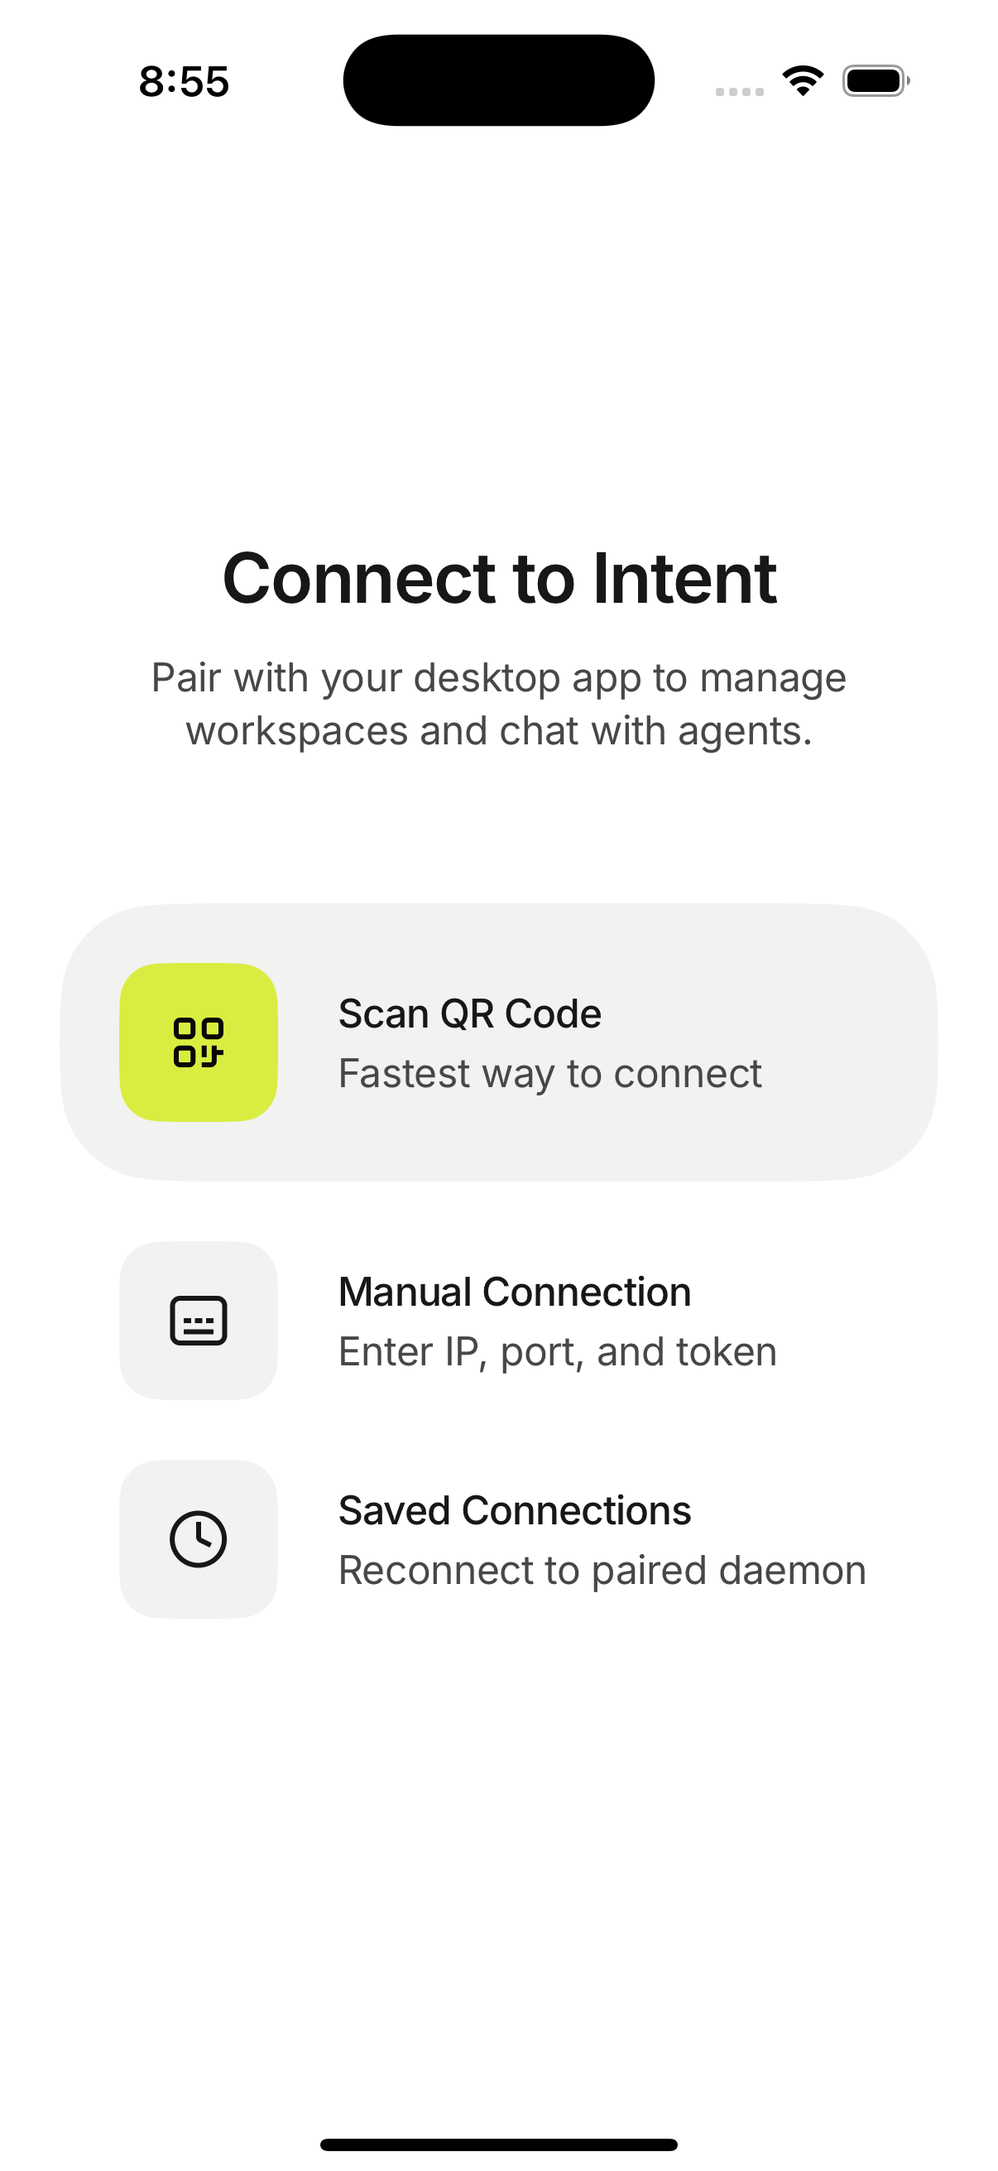
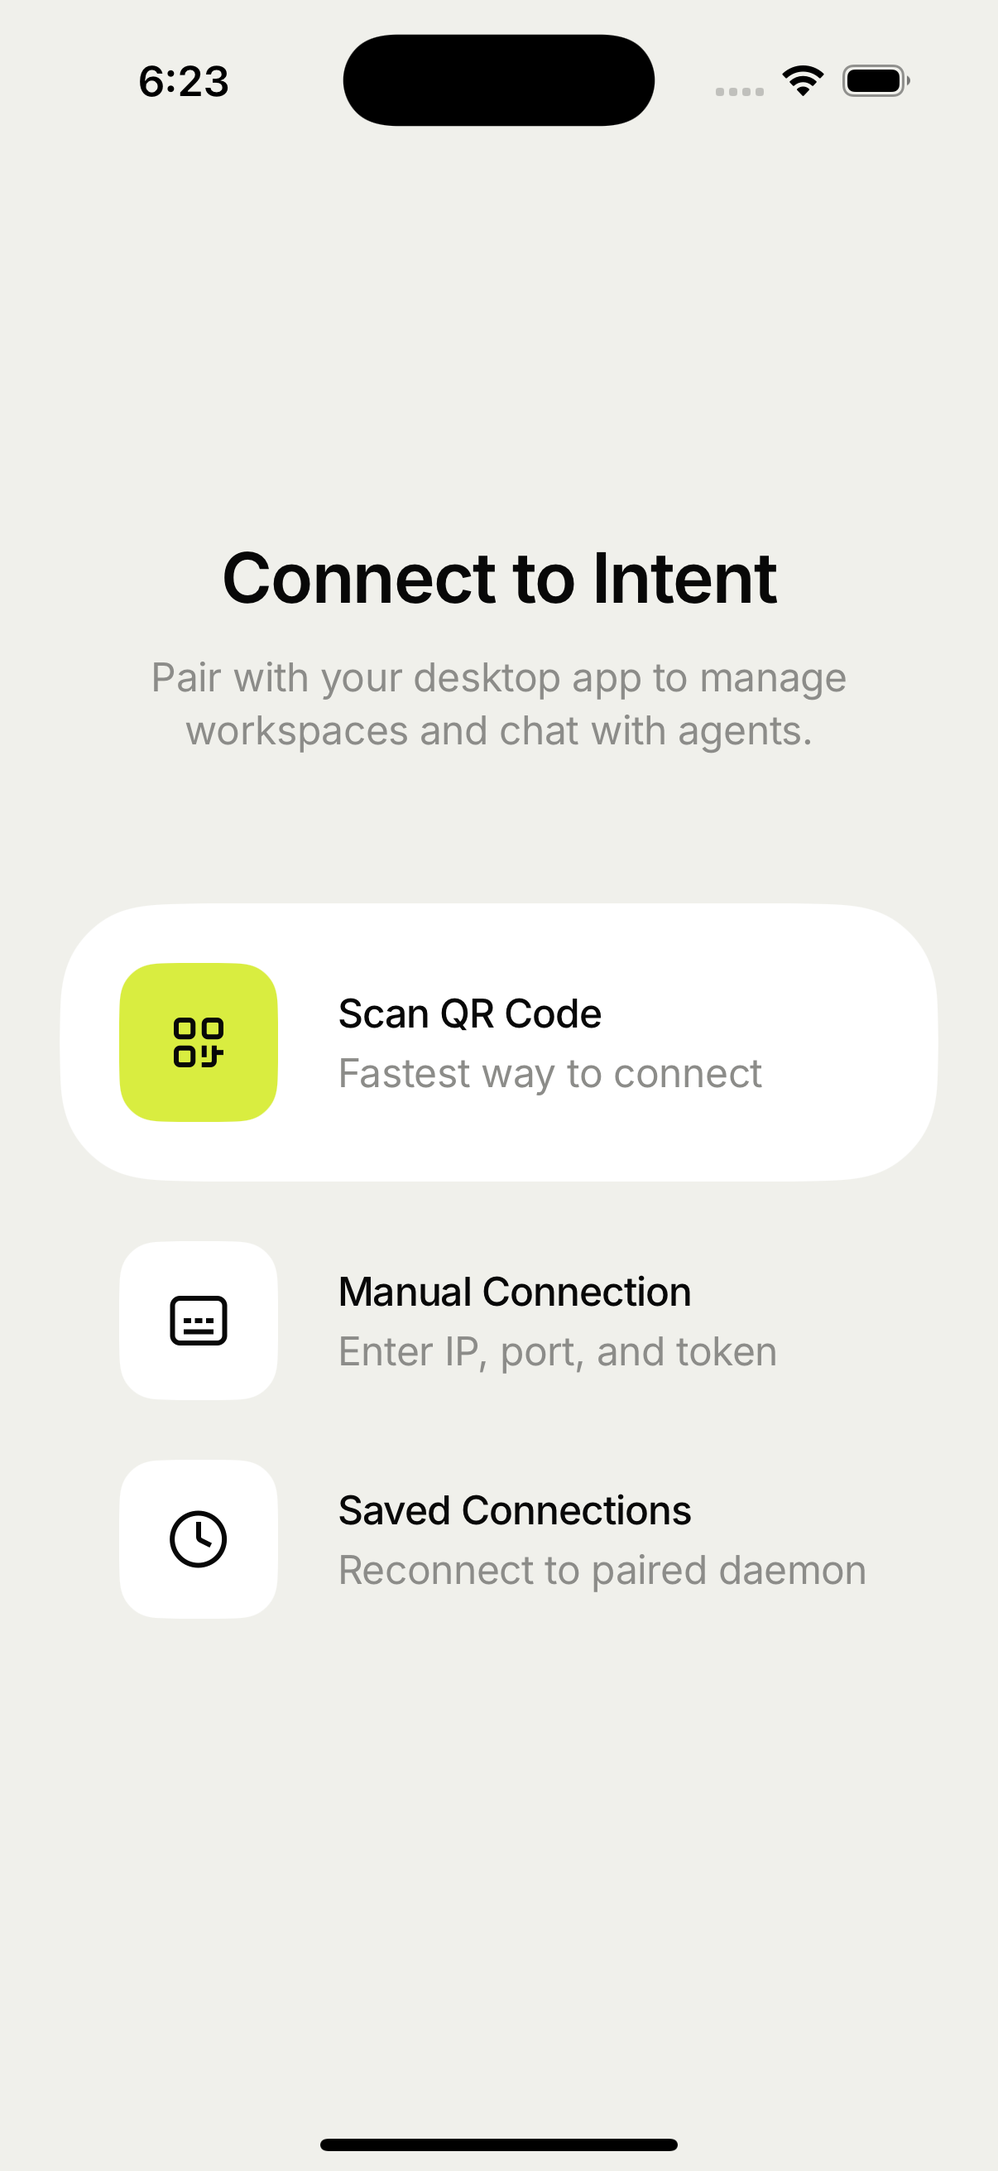
fix: match connection colors and refresh previews (#489)
Agent-Id: agent-cdae4bad-784a-4636-95eb-7aa4c5f506b7

diff --git a/IntentTests/SavedConnectionCardTests.swift b/IntentTests/SavedConnectionCardTests.swift
@@ -1,6 +1,7 @@
 @testable import Intent
 import SwiftUI
 import Testing
+import UIKit
 
 @MainActor
 struct SavedConnectionCardTests {
@@ -11,9 +12,57 @@ struct SavedConnectionCardTests {
         let colors = try pixelColors(card, scheme: scheme)
         let expected = scheme == .light
             ? [[255, 255, 255], [8, 8, 8], [140, 140, 137], [111, 163, 86], [217, 217, 217]]
-            : [[39, 39, 39], [240, 240, 235], [140, 140, 137], [111, 163, 86], [69, 69, 68]]
+            : [[39, 39, 39], [240, 240, 235], [140, 140, 137], [111, 163, 86], [71, 71, 71]]
         for color in expected {
             #expect(pixelCount(color, in: colors) > 20, "Missing rendered Saved color: \(color), \(scheme)")
+        }
+        // Figma full-frame Outline/15% Black: light #00000026, dark #FFFFFF26.
+        // The exact alpha/tint catches a warm divider that a tolerant pixel histogram could miss.
+        var red: CGFloat = 0
+        var green: CGFloat = 0
+        var blue: CGFloat = 0
+        var alpha: CGFloat = 0
+        UIColor(Constants.Connections.divider(for: scheme)).getRed(&red, green: &green, blue: &blue, alpha: &alpha)
+        #expect([red, green, blue] == Array(repeating: scheme == .light ? 0 : 1, count: 3))
+        #expect(abs(alpha - 38 / 255) < 0.0001)
+    }
+
+    @Test(.serialized, arguments: [ColorScheme.light, .dark])
+    func renderedManualEmptySheetUsesDesignPalette(scheme: ColorScheme) async throws {
+        // Actual sheet, labels, fields and disabled button; no pairing action or live credentials.
+        _ = TestKeychainStorage.installed
+        let suiteName = "ManualPaletteTests-\(UUID().uuidString)"
+        let defaults = try #require(UserDefaults(suiteName: suiteName))
+        defer { defaults.removePersistentDomain(forName: suiteName) }
+        let session = makeSession(defaults: defaults)
+        let view = ManualTokenEntryView()
+            .environment(session)
+            .environment(session.makeCoordinator())
+            .environment(\.colorScheme, scheme)
+            .environment(\.dynamicTypeSize, .large)
+            .frame(width: 402, height: 633)
+        // ImageRenderer cannot flatten native text fields or lay out this sheet's scroll content.
+        let colors = try await SyntheticBadgeHost.render(view, width: 402, height: 633) { hostView, _ in
+            let renderer = UIGraphicsImageRenderer(bounds: hostView.bounds)
+            var drawn = false
+            let image = renderer.image { _ in
+                drawn = hostView.drawHierarchy(in: hostView.bounds, afterScreenUpdates: true)
+            }
+            try #require(drawn)
+            return try pixelColors(#require(image.cgImage))
+        }
+        // Independent full-frame references: light 3051:54152, dark 2989:19990.
+        let expected = scheme == .light
+            ? [
+                [240, 240, 235], [8, 8, 8], [140, 140, 137], [82, 82, 80],
+                [255, 255, 255], [186, 186, 183], [202, 202, 199]
+            ]
+            : [
+                [22, 22, 22], [240, 240, 235], [140, 140, 137], [39, 39, 39],
+                [82, 82, 80], [60, 60, 58]
+            ]
+        for color in expected {
+            #expect(pixelCount(color, in: colors) > 20, "Missing rendered Manual color: \(color), \(scheme)")
         }
     }
 
@@ -48,18 +97,52 @@ struct SavedConnectionCardTests {
         }
     }
 
+    private func makeSession(defaults: UserDefaults) -> BackendSession {
+        let connection = FakeConnectionManager()
+        let store = WorkspaceStore(forTesting: true)
+        let persistence = PersistenceManager(defaults: defaults, keychainStorage: InMemoryKeychainStorage())
+        let fileLoader = WorkspaceFileImageLoader(connection: connection)
+        return BackendSession(
+            backendID: nil,
+            connection: connection,
+            workspaceStore: store,
+            coordinatorFactory: { claim in
+                AppCoordinator(
+                    workspaceStore: store,
+                    connection: connection,
+                    persistence: persistence,
+                    claimScreenRestoration: claim
+                )
+            },
+            githubRepoStore: GitHubRepoStore(connectionManager: connection),
+            creationOptionsStore: CreationOptionsStore(connectionManager: connection),
+            prMonitorsStore: WorkspacePrMonitorsStore(connectionManager: connection),
+            attachmentUploadService: AttachmentUploadService(connection: connection),
+            workspaceFileImageLoader: fileLoader,
+            attachmentImageLoader: AttachmentImageLoader(connection: connection, fileLoader: fileLoader),
+            attentionCueCenter: WorkspaceAttentionCueCenter {}
+        )
+    }
+
     private func pixelColors<V: View>(_ view: V, scheme: ColorScheme) throws -> [[Int]] {
         let renderer = ImageRenderer(content: view
             .environment(\.colorScheme, scheme)
             .environment(\.dynamicTypeSize, .large))
         renderer.scale = 3
         let image = try #require(renderer.cgImage)
+        return try pixelColors(image)
+    }
+
+    private func pixelColors(_ image: CGImage) throws -> [[Int]] {
         let colorSpace = try #require(CGColorSpace(name: CGColorSpace.sRGB))
         var bytes = [UInt8](repeating: 0, count: image.width * image.height * 4)
         try bytes.withUnsafeMutableBytes { buffer in
             let context = try #require(CGContext(
-                data: buffer.baseAddress, width: image.width, height: image.height,
-                bitsPerComponent: 8, bytesPerRow: image.width * 4,
+                data: buffer.baseAddress,
+                width: image.width,
+                height: image.height,
+                bitsPerComponent: 8,
+                bytesPerRow: image.width * 4,
                 space: colorSpace,
                 bitmapInfo: CGImageAlphaInfo.premultipliedLast.rawValue | CGBitmapInfo.byteOrder32Big.rawValue
             ))

diff --git a/Intent/DesignSystem/ConnectionSheetStyle.swift b/Intent/DesignSystem/ConnectionSheetStyle.swift
@@ -2,7 +2,7 @@ import SwiftUI
 
 extension Constants {
     /// Manual frames 2989:19990 / 2989:20026; reusable destination-sheet geometry.
-    /// Palette intentionally reuses Connect's matching colors without changing them.
+    /// Manual's shared palette is supplied explicitly, preserving other sheet callers.
     enum ConnectionSheet {
         static let inset: CGFloat = 24
         static let glyphSize: CGFloat = 24
@@ -17,9 +17,29 @@ extension Constants {
         static let minimumTouchTarget: CGFloat = 44
         static let placeholderOpacity: Double = 0.3
         static let pressedOpacity: Double = 0.7
-        // Figma surface/grey-600 #525250.
-        // swiftlint:disable:next no_magic_numbers
-        static let disabledBackground = Color(.sRGB, red: 82 / 255, green: 82 / 255, blue: 80 / 255)
+        // Figma Surface/Grey600 in dark 2989:19990 and light 3051:54152.
+        // swiftlint:disable no_magic_numbers
+        private static let darkDisabledBackground = Color(.sRGB, red: 82 / 255, green: 82 / 255, blue: 80 / 255)
+        private static let lightDisabledBackground = Color(.sRGB, red: 186 / 255, green: 186 / 255, blue: 183 / 255)
+        private static let lightDisabledForeground = Color(.sRGB, red: 240 / 255, green: 240 / 255, blue: 235 / 255)
+        // swiftlint:enable no_magic_numbers
+
+        static func disabledBackground(for scheme: ColorScheme) -> Color {
+            scheme == .dark ? darkDisabledBackground : lightDisabledBackground
+        }
+
+        static func disabledForeground(for scheme: ColorScheme) -> Color {
+            (scheme == .dark ? Constants.Pairing.onAccent : lightDisabledForeground).opacity(placeholderOpacity)
+        }
+
+        // Nil sheet overrides retain the appearance used by unmodified destinations such as Details.
+        static func defaultBackground(for scheme: ColorScheme) -> Color {
+            scheme == .dark ? Constants.Pairing.background(for: scheme) : Theme.background(for: scheme)
+        }
+
+        static func defaultForeground(for scheme: ColorScheme) -> Color {
+            scheme == .dark ? Constants.Pairing.foreground(for: scheme) : Theme.foreground(for: scheme)
+        }
     }
 }
 
@@ -36,4 +56,12 @@ extension Constants.ManualTokenEntry {
     static let labelTracking: CGFloat = 0.24
     static let pasteVerticalPadding: CGFloat = 10
     static let pasteHitExpansion: CGFloat = 10
+
+    // Field labels use Grey400 in light mode, distinct from the Grey500 subtitle.
+    // swiftlint:disable:next no_magic_numbers
+    private static let lightLabelForeground = Color(.sRGB, red: 82 / 255, green: 82 / 255, blue: 80 / 255)
+
+    static func labelForeground(for scheme: ColorScheme) -> Color {
+        scheme == .dark ? Constants.Pairing.mutedForeground(for: scheme) : lightLabelForeground
+    }
 }

diff --git a/Intent/Views/Onboarding/ManualTokenEntryView.swift b/Intent/Views/Onboarding/ManualTokenEntryView.swift
@@ -92,7 +92,11 @@ struct ManualTokenEntryView: View {
     private enum Field { case host, port, token }
 
     var body: some View {
-        ConnectionSheet(initialHeight: Constants.ManualTokenEntry.initialSheetHeight) {
+        ConnectionSheet(
+            initialHeight: Constants.ManualTokenEntry.initialSheetHeight,
+            backgroundColor: Constants.Pairing.background(for: colorScheme),
+            closeForeground: Constants.Pairing.foreground(for: colorScheme)
+        ) {
             entryForm
         }
             .alert("Verify Server Identity", isPresented: $showFingerprintConfirmation) {
@@ -188,7 +192,8 @@ struct ManualTokenEntryView: View {
                             .contentShape(.rect)
                     }
                     .buttonStyle(.plain)
-                    .foregroundStyle(Constants.Pairing.foreground(for: colorScheme))
+                    // Preserve the visible light paste affordance rather than Figma's white-on-white export.
+                    .foregroundStyle(Theme.foreground(for: colorScheme))
                     .accessibilityLabel("Paste API token")
                     // Expand the hit region inward, retaining the reference's 24pt glyph inset.
                     .padding(.trailing, -Constants.ManualTokenEntry.pasteHitExpansion)
@@ -226,14 +231,15 @@ struct ManualTokenEntryView: View {
             }
             .font(Constants.Typography.bodySEmphasized.font)
             .tracking(Constants.Pairing.optionTitleTracking)
-            .foregroundStyle(Constants.Pairing.onAccent.opacity(
-                !isValidating && (host.isEmpty || token.isEmpty) ? Constants.ConnectionSheet.placeholderOpacity : 1
-            ))
+            .foregroundStyle(
+                !isValidating && (host.isEmpty || token.isEmpty)
+                    ? Constants.ConnectionSheet.disabledForeground(for: colorScheme) : Constants.Pairing.onAccent
+            )
             .padding(.vertical, Constants.ConnectionSheet.fieldVerticalPadding)
             .frame(maxWidth: .infinity, minHeight: Constants.ConnectionSheet.fieldHeight)
             .background(
                 !isValidating && (host.isEmpty || token.isEmpty)
-                    ? Constants.ConnectionSheet.disabledBackground : Constants.Pairing.accent,
+                    ? Constants.ConnectionSheet.disabledBackground(for: colorScheme) : Constants.Pairing.accent,
                 in: .rect(cornerRadius: Constants.ConnectionSheet.fieldCornerRadius)
             )
         }

diff --git a/Intent/DesignSystem/PairingColors.swift b/Intent/DesignSystem/PairingColors.swift
@@ -1,32 +1,33 @@
 import SwiftUI
 
 extension Constants.Pairing {
-    // Connect-only colors from Figma frame 3051:54405; do not retheme other screens.
-    // Light mode keeps the app's existing semantic text/background colors.
+    // Connect/Manual colors from full-frame Figma modes: dark 3051:54405, light 3051:54203.
+    // Keep these connection-scoped; the app's global Theme is unchanged.
     // These named palette constants retain the design's exact 8-bit sRGB channels.
     // swiftlint:disable no_magic_numbers
     private static let darkBackground = Color(.sRGB, red: 22 / 255, green: 22 / 255, blue: 22 / 255)
     private static let darkForeground = Color(.sRGB, red: 240 / 255, green: 240 / 255, blue: 235 / 255)
     private static let darkMutedForeground = Color(.sRGB, red: 140 / 255, green: 140 / 255, blue: 137 / 255)
     private static let darkSurface = Color(.sRGB, red: 39 / 255, green: 39 / 255, blue: 39 / 255)
-    private static let lightSurface = Color(.sRGB, red: 242 / 255, green: 242 / 255, blue: 240 / 255)
+    private static let lightBackground = Color(.sRGB, red: 240 / 255, green: 240 / 255, blue: 235 / 255)
+    private static let lightForeground = Color(.sRGB, red: 8 / 255, green: 8 / 255, blue: 8 / 255)
     static let accent = Color(.sRGB, red: 221 / 255, green: 236 / 255, blue: 97 / 255)
     static let onAccent = Color(.sRGB, red: 8 / 255, green: 8 / 255, blue: 8 / 255)
     // swiftlint:enable no_magic_numbers
 
     static func background(for scheme: ColorScheme) -> Color {
-        scheme == .dark ? darkBackground : Theme.background(for: scheme)
+        scheme == .dark ? darkBackground : lightBackground
     }
 
     static func foreground(for scheme: ColorScheme) -> Color {
-        scheme == .dark ? darkForeground : Theme.foreground(for: scheme)
+        scheme == .dark ? darkForeground : lightForeground
     }
 
-    static func mutedForeground(for scheme: ColorScheme) -> Color {
-        scheme == .dark ? darkMutedForeground : Theme.mutedForeground(for: scheme)
+    static func mutedForeground(for _: ColorScheme) -> Color {
+        darkMutedForeground
     }
 
     static func surface(for scheme: ColorScheme) -> Color {
-        scheme == .dark ? darkSurface : lightSurface
+        scheme == .dark ? darkSurface : .white
     }
 }

diff --git a/IntentTests/PairingDesignTests.swift b/IntentTests/PairingDesignTests.swift
@@ -35,12 +35,14 @@ struct PairingDesignTests {
         #expect(representations.count == 3, "The three actions must not accidentally share one glyph")
     }
 
-    @Test func darkPaletteMatchesConnectDesign() {
+    @Test(arguments: [ColorScheme.light, .dark])
+    func paletteMatchesConnectDesign(scheme: ColorScheme) {
+        // Full-frame Figma modes: light 3051:54203, dark 3051:54405.
         let expected: [(Color, [CGFloat])] = [
-            (Constants.Pairing.background(for: .dark), [22, 22, 22]),
-            (Constants.Pairing.foreground(for: .dark), [240, 240, 235]),
-            (Constants.Pairing.mutedForeground(for: .dark), [140, 140, 137]),
-            (Constants.Pairing.surface(for: .dark), [39, 39, 39]),
+            (Constants.Pairing.background(for: scheme), scheme == .light ? [240, 240, 235] : [22, 22, 22]),
+            (Constants.Pairing.foreground(for: scheme), scheme == .light ? [8, 8, 8] : [240, 240, 235]),
+            (Constants.Pairing.mutedForeground(for: scheme), [140, 140, 137]),
+            (Constants.Pairing.surface(for: scheme), scheme == .light ? [255, 255, 255] : [39, 39, 39]),
             (Constants.Pairing.accent, [221, 236, 97]),
             (Constants.Pairing.onAccent, [8, 8, 8])
         ]
@@ -51,11 +53,10 @@ struct PairingDesignTests {
         }
     }
 
-    @Test func lightTextAndGlyphsRemainReadableOnBothSurfaces() {
+    @Test func lightPrimaryTextAndGlyphsRemainReadableOnBothSurfaces() {
+        // Exact Figma secondary text is below 4.5:1; palette parity is not an accessibility approval.
         for background in [Constants.Pairing.background(for: .light), Constants.Pairing.surface(for: .light)] {
-            for foreground in [Constants.Pairing.foreground(for: .light), Constants.Pairing.mutedForeground(for: .light)] {
-                #expect(contrast(foreground, background) >= 4.5)
-            }
+            #expect(contrast(Constants.Pairing.foreground(for: .light), background) >= 4.5)
         }
         #expect(contrast(Constants.Pairing.onAccent, Constants.Pairing.accent) >= 4.5)
     }

diff --git a/Intent/DesignSystem/SavedConnectionStyle.swift b/Intent/DesignSystem/SavedConnectionStyle.swift
@@ -12,12 +12,14 @@ extension Constants.Connections {
     static let connectedSpacing: CGFloat = 8
     static let dividerWidth: CGFloat = 1
     static let dividerHeight: CGFloat = 12
-    static let dividerOpacity: Double = 0.15
+    // Figma Outline/15% Black exports alpha 0x26 in both appearance modes.
+    // swiftlint:disable:next no_magic_numbers
+    static let dividerOpacity: Double = 38 / 255
     static let headingTracking: CGFloat = -0.56
     static let nameTracking: CGFloat = -0.32
     static let infoTracking: CGFloat = -0.12
 
-    // Saved-only light palette; other connection destinations retain Pairing colors.
+    // Preserve the approved exact Saved light palette independently of other destinations.
     // swiftlint:disable no_magic_numbers
     private static let lightBackground = Color(.sRGB, red: 240 / 255, green: 240 / 255, blue: 235 / 255)
     private static let lightForeground = Color(.sRGB, red: 8 / 255, green: 8 / 255, blue: 8 / 255)
@@ -43,7 +45,7 @@ extension Constants.Connections {
     }
 
     static func divider(for scheme: ColorScheme) -> Color {
-        scheme == .dark ? Constants.Pairing.foreground(for: scheme).opacity(dividerOpacity) : lightDivider
+        scheme == .dark ? Color.white.opacity(dividerOpacity) : lightDivider
     }
 
     static func connectedForeground(for _: ColorScheme) -> Color {

diff --git a/Intent/Views/Connection/ConnectionSheet.swift b/Intent/Views/Connection/ConnectionSheet.swift
@@ -26,7 +26,7 @@ struct ConnectionSheet<Content: View>: View {
                         .contentShape(.rect)
                 }
                 .buttonStyle(.plain)
-                .foregroundStyle(closeForeground ?? Constants.Pairing.foreground(for: colorScheme))
+                .foregroundStyle(closeForeground ?? Constants.ConnectionSheet.defaultForeground(for: colorScheme))
                 .accessibilityLabel("Close")
                 .accessibilityIdentifier("connection-sheet.close")
                 .padding(.horizontal, Constants.ConnectionSheet.inset)
@@ -47,8 +47,8 @@ struct ConnectionSheet<Content: View>: View {
                 .scrollDismissesKeyboard(.interactively)
             }
         }
-        .background(backgroundColor ?? Constants.Pairing.background(for: colorScheme))
-        .presentationBackground(backgroundColor ?? Constants.Pairing.background(for: colorScheme))
+        .background(backgroundColor ?? Constants.ConnectionSheet.defaultBackground(for: colorScheme))
+        .presentationBackground(backgroundColor ?? Constants.ConnectionSheet.defaultBackground(for: colorScheme))
         .presentationCornerRadius(Constants.ConnectionSheet.cornerRadius)
         .presentationDragIndicator(.hidden)
         .presentationDetents([

diff --git a/Intent/Views/Connection/ConnectionsView.swift b/Intent/Views/Connection/ConnectionsView.swift
@@ -142,7 +142,9 @@ struct ConnectionsView: View {
             if connections.isEmpty {
                 Text("No saved connections. Pair from the Connect screen to save a connection.")
                     .font(Constants.Typography.bodyS.font)
-                    .foregroundStyle(Constants.Pairing.mutedForeground(for: colorScheme))
+                    // No empty-state design reference: preserve its existing semantic light color.
+                    .foregroundStyle(colorScheme == .dark
+                        ? Constants.Pairing.mutedForeground(for: colorScheme) : Theme.mutedForeground(for: colorScheme))
                     .multilineTextAlignment(.center)
                     .fixedSize(horizontal: false, vertical: true)
                     .accessibilityIdentifier("saved-connections.empty")

diff --git a/Intent/Views/Onboarding/ManualConnectionField.swift b/Intent/Views/Onboarding/ManualConnectionField.swift
@@ -14,7 +14,7 @@ struct ManualConnectionField<Content: View>: View {
                 style: Constants.Typography.eyebrow,
                 tracking: Constants.ManualTokenEntry.labelTracking
             )
-                .foregroundStyle(Constants.Pairing.mutedForeground(for: colorScheme))
+                .foregroundStyle(Constants.ManualTokenEntry.labelForeground(for: colorScheme))
                 .accessibilityHidden(true)
             content
                 .textFieldStyle(.plain)

diff --git a/Intent/Views/Connection/SavedConnectionDetails.swift b/Intent/Views/Connection/SavedConnectionDetails.swift
@@ -29,7 +29,7 @@ struct SavedConnectionDetails: View {
                         .font(Constants.Typography.bodyXS.font)
                 }
             }
-            .foregroundStyle(Constants.Pairing.foreground(for: colorScheme))
+            .foregroundStyle(Constants.ConnectionSheet.defaultForeground(for: colorScheme))
             .frame(maxWidth: .infinity, alignment: .leading)
             .fixedSize(horizontal: false, vertical: true)
         }
